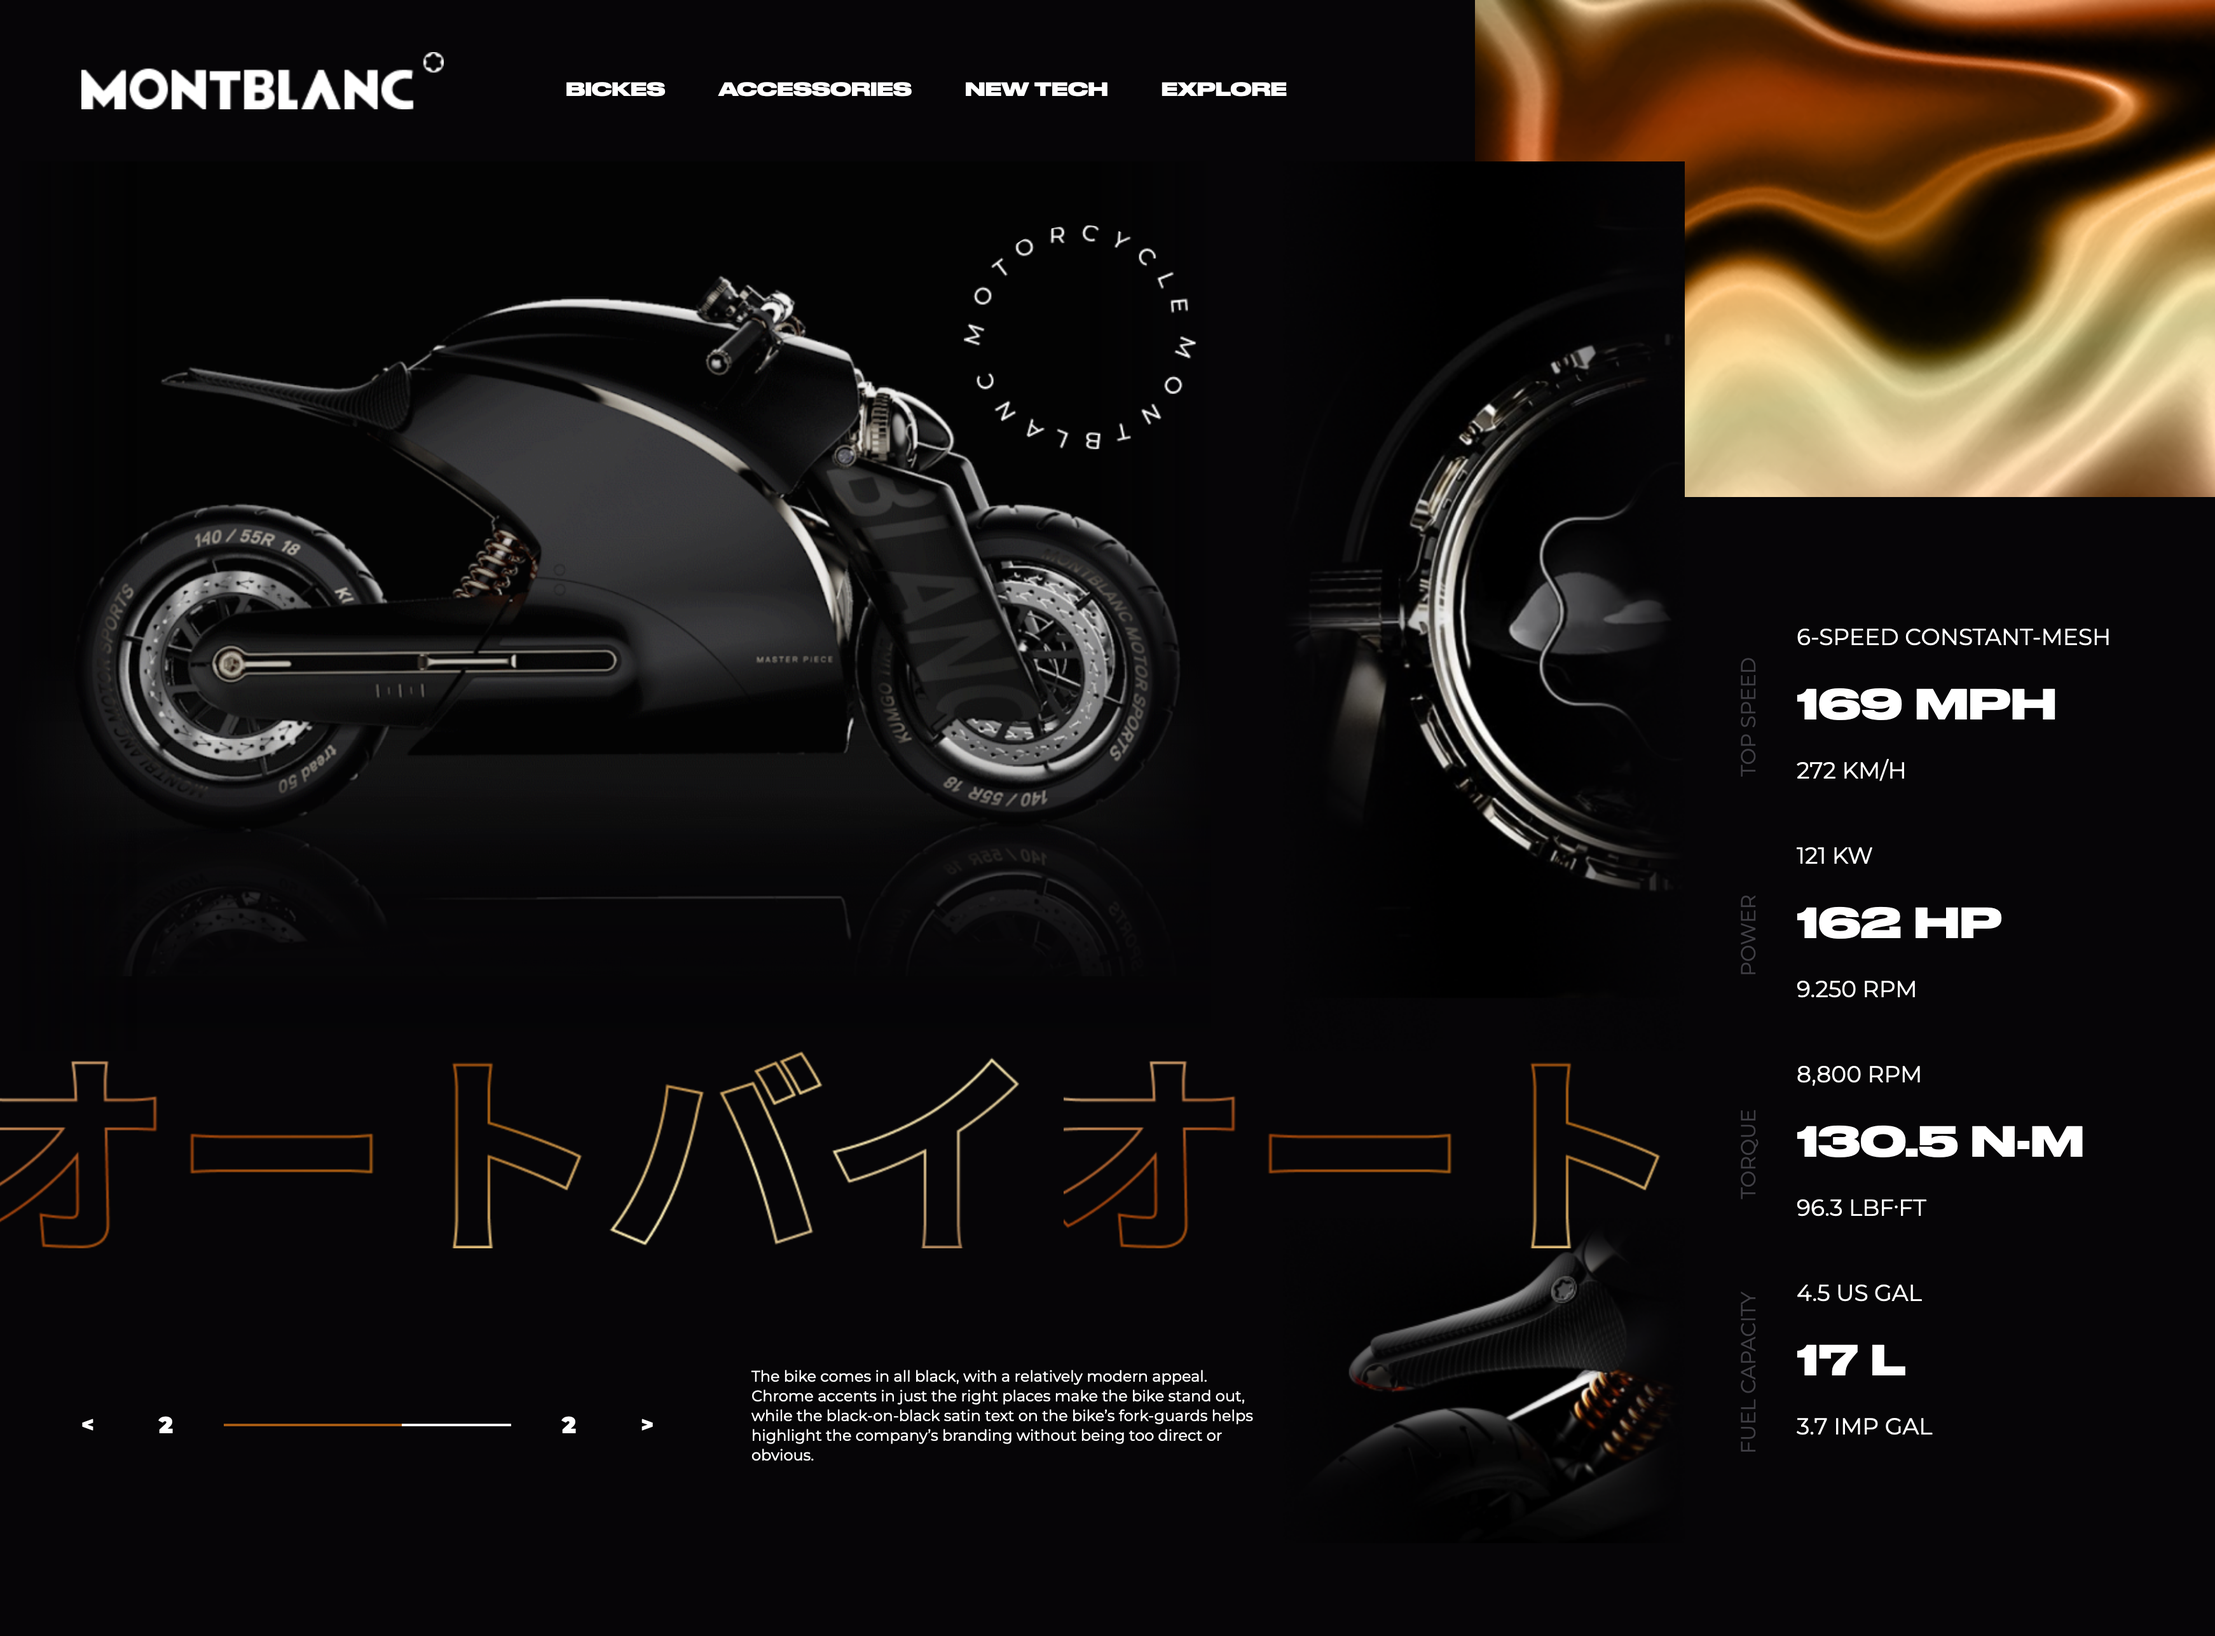
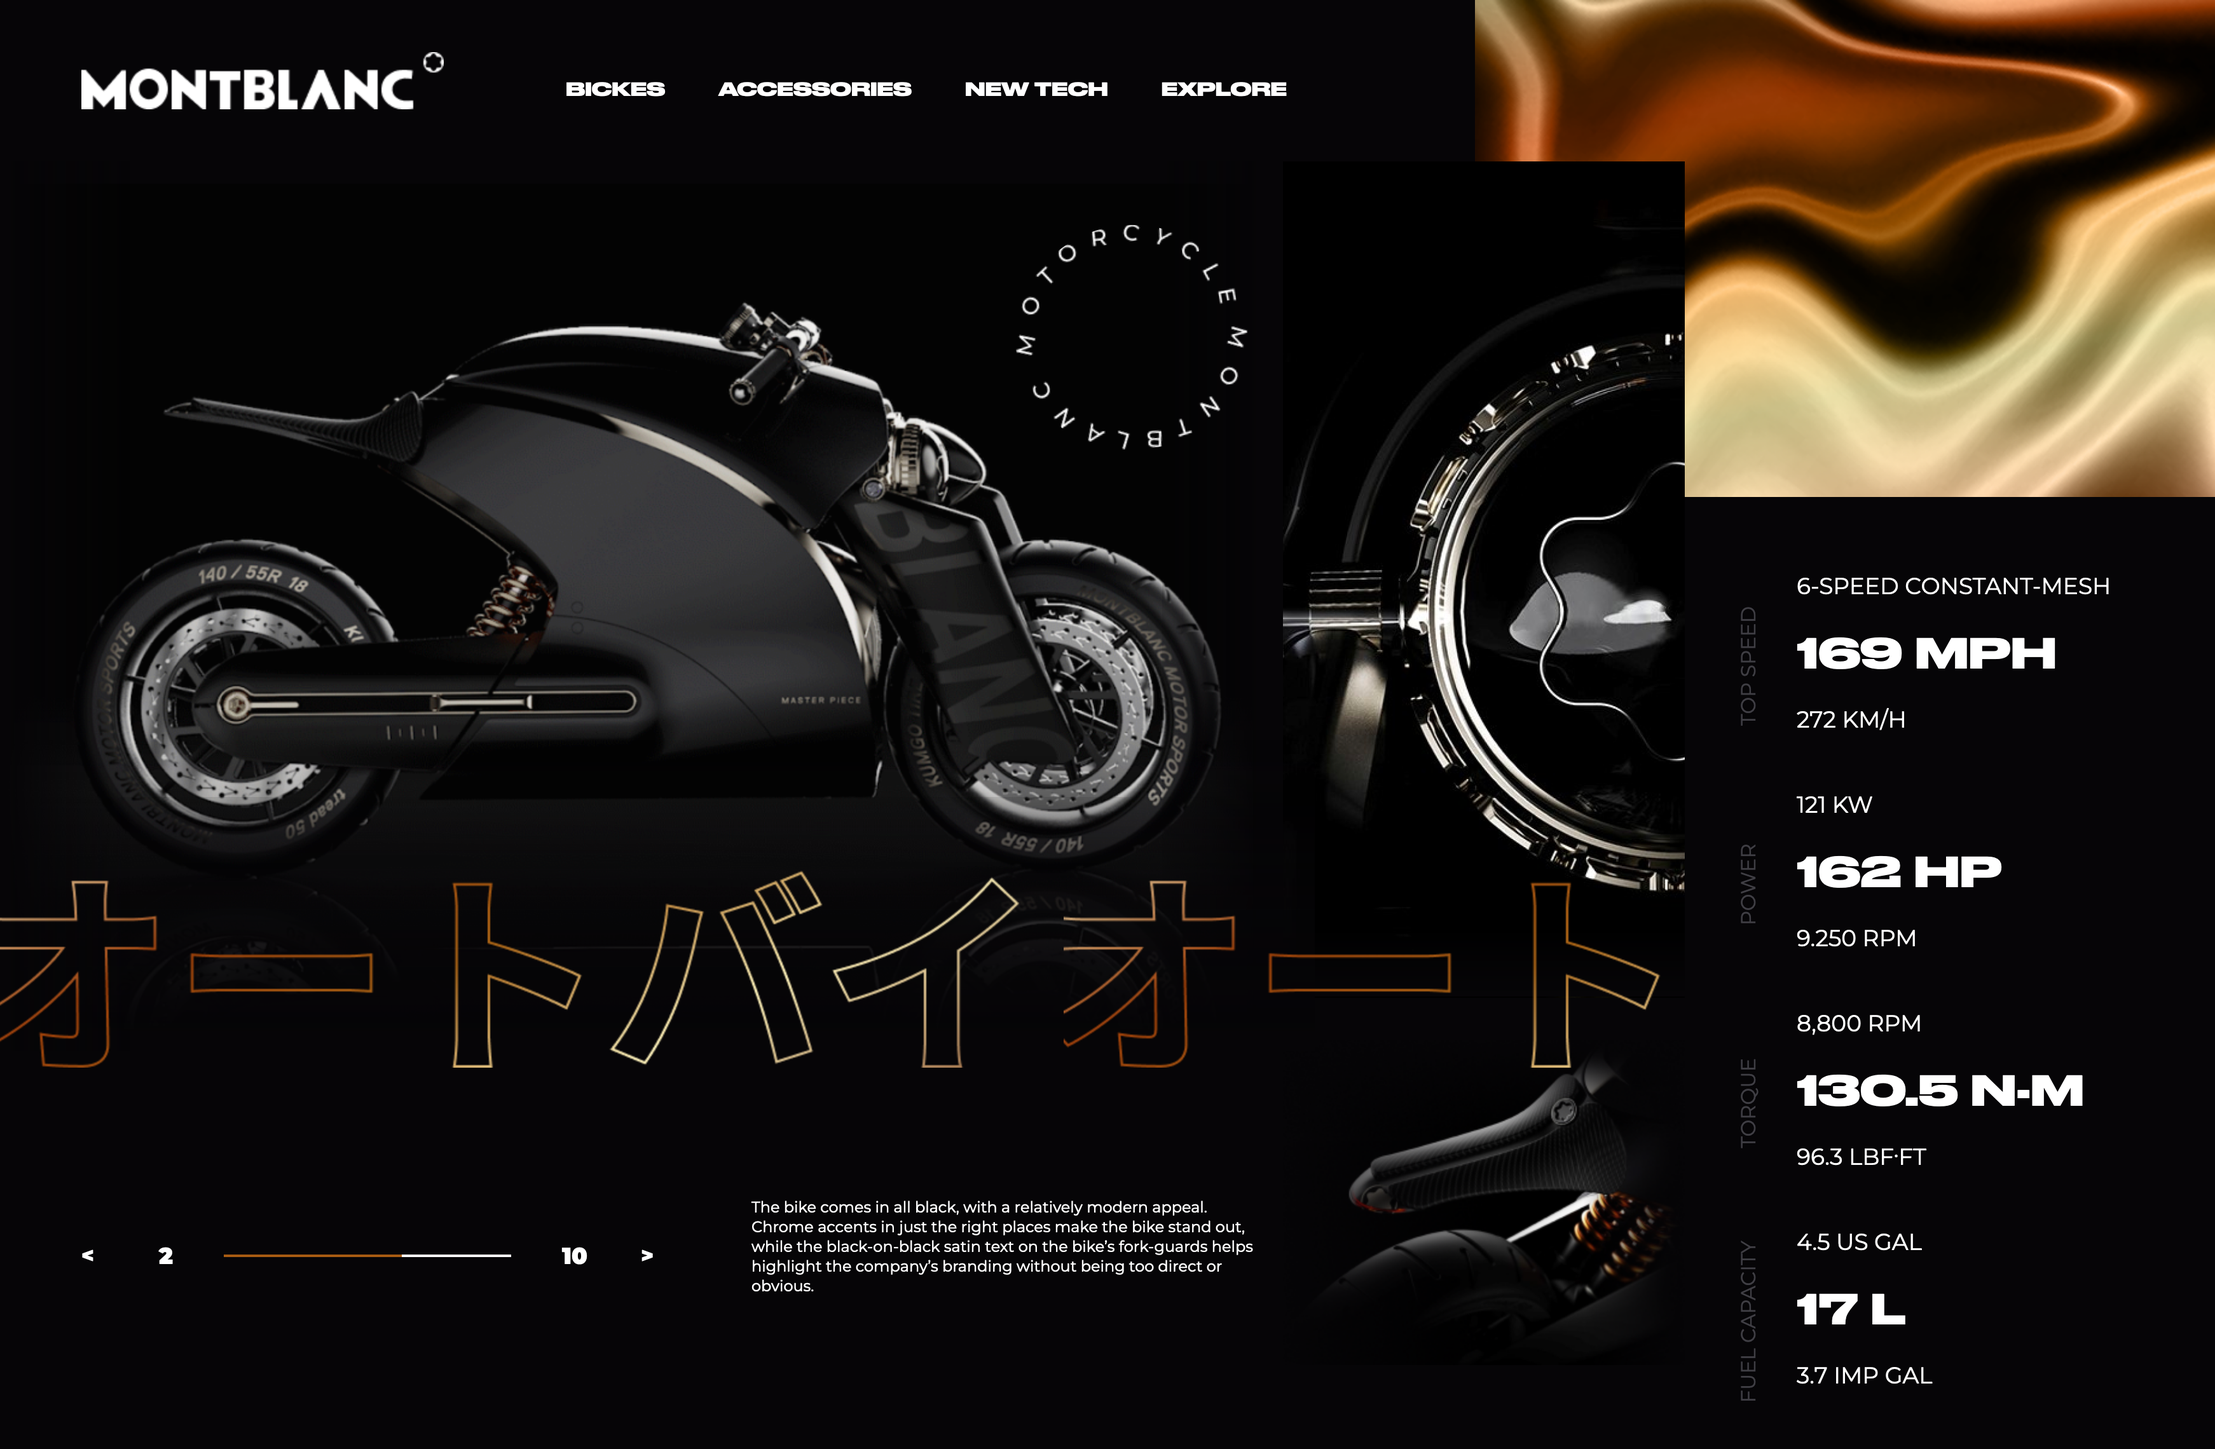
feat(lab-2): improve styles

diff --git a/code-lab-2/sass/app.scss b/code-lab-2/sass/app.scss
@@ -117,6 +117,40 @@ body {
         }
       }
 
+      .hero_motor_wheel {
+        content: '';
+        position: absolute;
+        top: 0;
+        right: 0;
+        background: url("../assets/motor-end-wheel.png") no-repeat;
+        background-size: 100%;
+        max-width: 316px;
+        width: 100%;
+        z-index: 2;
+        height: 100%;
+
+        &::before {
+          content: '';
+          position: absolute;
+          left: -30%;
+          width: 80px;
+          height: 100%;
+          z-index: 10;
+          bottom: 0;
+          background: linear-gradient(to left, $main-background-color, rgba(6, 5, 7, 0.1));
+        }
+        &::after {
+          content: '';
+          position: absolute;
+          left: 0;
+          width: 100%;
+          height: 50px;
+          z-index: 10;
+          bottom: 43px;
+          background: linear-gradient(rgba(6, 5, 7, 0.1), $main-background-color);
+        }
+      }
+
       .hero_motor {
         max-width: 1032px;
         width: 1032px;
@@ -140,7 +174,7 @@ body {
           height: 245px;
           z-index: 100;
           bottom: 0;
-          background: linear-gradient(rgba(6, 5, 7, 0.1), $main-background-color);
+          background: linear-gradient(rgba(6, 5, 7, 0), $main-background-color);
         }
 
         .circle {
@@ -148,7 +182,7 @@ body {
           width: 100%;
           height: 177.41px;
           position: absolute;
-          right: 6%;
+          right: 10%;
           top: 50px;
           z-index: 20;
           border-radius: 50%;
@@ -172,15 +206,17 @@ body {
           height: 100%;
 
           &::after {
-            content: '';
             position: absolute;
-            right: 5.5%;
-            width: 100px;
+            content: '';
+            width: 100%;
             height: 100%;
-            z-index: 10;
-            bottom: 0;
-            background: linear-gradient(to left, $main-background-color, rgba(6, 5, 7, 0));
+            top: 0;
+            left: -6%;
+            z-index: 1;
+            background: url("../assets/motor.png") 6% no-repeat;
+            background-size: 95%;
           }
+
 
           &::before {
             content: '';
@@ -208,7 +244,6 @@ body {
 
     .glyph_wraper {
       position: relative;
-      height: 150px;
 
       .glyph {
         background: url("../assets/glyph.png") no-repeat left,
@@ -216,16 +251,16 @@ body {
         position: absolute;
         left: -6%;
         right: 0;
-        top: 0;
+        top: -142px;
         height: 155px;
-        z-index: 2;
+        z-index: 100;
       }
     }
 
     .footer_wraper {
       display: flex;
       align-items: center;
-      margin-top: 98px;
+      margin-top: 115px;
       column-gap: 77px;
       position: relative;
 
@@ -289,7 +324,7 @@ body {
         width: 316px;
         height: 256px;
         right: 0;
-        bottom: -47px;
+        bottom: -40px;
         background: url("../assets/bottom-motor-wheel.png") no-repeat;
       }
     }
@@ -304,7 +339,7 @@ body {
     padding-top: 43px;
     padding-left: 40px;
     padding-right: 0;
-    margin-top: 320px;
+    margin-top: 280px;
     height: 100vh;
 
     .info {

diff --git a/code-lab-2/css/app.css b/code-lab-2/css/app.css
@@ -109,6 +109,38 @@ body {
   position: absolute;
   top: 0;
 }
+.content .start_wraper .hero_wraper .hero_motor_wheel {
+  content: "";
+  position: absolute;
+  top: 0;
+  right: 0;
+  background: url("../assets/motor-end-wheel.png") no-repeat;
+  background-size: 100%;
+  max-width: 316px;
+  width: 100%;
+  z-index: 2;
+  height: 100%;
+}
+.content .start_wraper .hero_wraper .hero_motor_wheel::before {
+  content: "";
+  position: absolute;
+  left: -30%;
+  width: 80px;
+  height: 100%;
+  z-index: 10;
+  bottom: 0;
+  background: linear-gradient(to left, #060507, rgba(6, 5, 7, 0.1));
+}
+.content .start_wraper .hero_wraper .hero_motor_wheel::after {
+  content: "";
+  position: absolute;
+  left: 0;
+  width: 100%;
+  height: 50px;
+  z-index: 10;
+  bottom: 43px;
+  background: linear-gradient(rgba(6, 5, 7, 0.1), #060507);
+}
 .content .start_wraper .hero_wraper .hero_motor {
   max-width: 1032px;
   width: 1032px;
@@ -131,14 +163,14 @@ body {
   height: 245px;
   z-index: 100;
   bottom: 0;
-  background: linear-gradient(rgba(6, 5, 7, 0.1), #060507);
+  background: linear-gradient(rgba(6, 5, 7, 0), #060507);
 }
 .content .start_wraper .hero_wraper .hero_motor .circle {
   max-width: 183.28px;
   width: 100%;
   height: 177.41px;
   position: absolute;
-  right: 6%;
+  right: 10%;
   top: 50px;
   z-index: 20;
   border-radius: 50%;
@@ -158,14 +190,15 @@ body {
   height: 100%;
 }
 .content .start_wraper .hero_wraper .hero_motor .bg::after {
-  content: "";
   position: absolute;
-  right: 5.5%;
-  width: 100px;
+  content: "";
+  width: 100%;
   height: 100%;
-  z-index: 10;
-  bottom: 0;
-  background: linear-gradient(to left, #060507, rgba(6, 5, 7, 0));
+  top: 0;
+  left: -6%;
+  z-index: 1;
+  background: url("../assets/motor.png") 6% no-repeat;
+  background-size: 95%;
 }
 .content .start_wraper .hero_wraper .hero_motor .bg::before {
   content: "";
@@ -187,21 +220,20 @@ body {
 }
 .content .start_wraper .glyph_wraper {
   position: relative;
-  height: 150px;
 }
 .content .start_wraper .glyph_wraper .glyph {
   background: url("../assets/glyph.png") no-repeat left, url("../assets/glyph.png") right -62% top no-repeat;
   position: absolute;
   left: -6%;
   right: 0;
-  top: 0;
+  top: -142px;
   height: 155px;
-  z-index: 2;
+  z-index: 100;
 }
 .content .start_wraper .footer_wraper {
   display: flex;
   align-items: center;
-  margin-top: 98px;
+  margin-top: 115px;
   column-gap: 77px;
   position: relative;
 }
@@ -256,7 +288,7 @@ body {
   width: 316px;
   height: 256px;
   right: 0;
-  bottom: -47px;
+  bottom: -40px;
   background: url("../assets/bottom-motor-wheel.png") no-repeat;
 }
 .content .end_wraper {
@@ -267,7 +299,7 @@ body {
   padding-top: 43px;
   padding-left: 40px;
   padding-right: 0;
-  margin-top: 320px;
+  margin-top: 280px;
   height: 100vh;
 }
 .content .end_wraper .info {

diff --git a/code-lab-2/index.html b/code-lab-2/index.html
@@ -47,13 +47,9 @@
                     <div class="circle">
                         <img class="rotate" src="assets/motorcycle-letter.png" alt="circle">
                     </div>
-                    <div class="bg">
-                        <img src="assets/motor.png" alt="moto">
-                    </div>
+                    <div class="bg"></div>
                 </div>
-                <div class="hero_motor_wheel">
-                    <img src="assets/motor-end-wheel.png" alt="wheel">
-                </div>
+                <div class="hero_motor_wheel"></div>
             </div>
             <div class="glyph_wraper">
                 <div class="glyph"></div>
@@ -67,7 +63,7 @@
                         <span class="indicator"></span>
                     </div>
                     <div class="end">
-                        <span>2</span>
+                        <span>10</span>
                     </div>
                 </div>
                 <div class="text_content">
